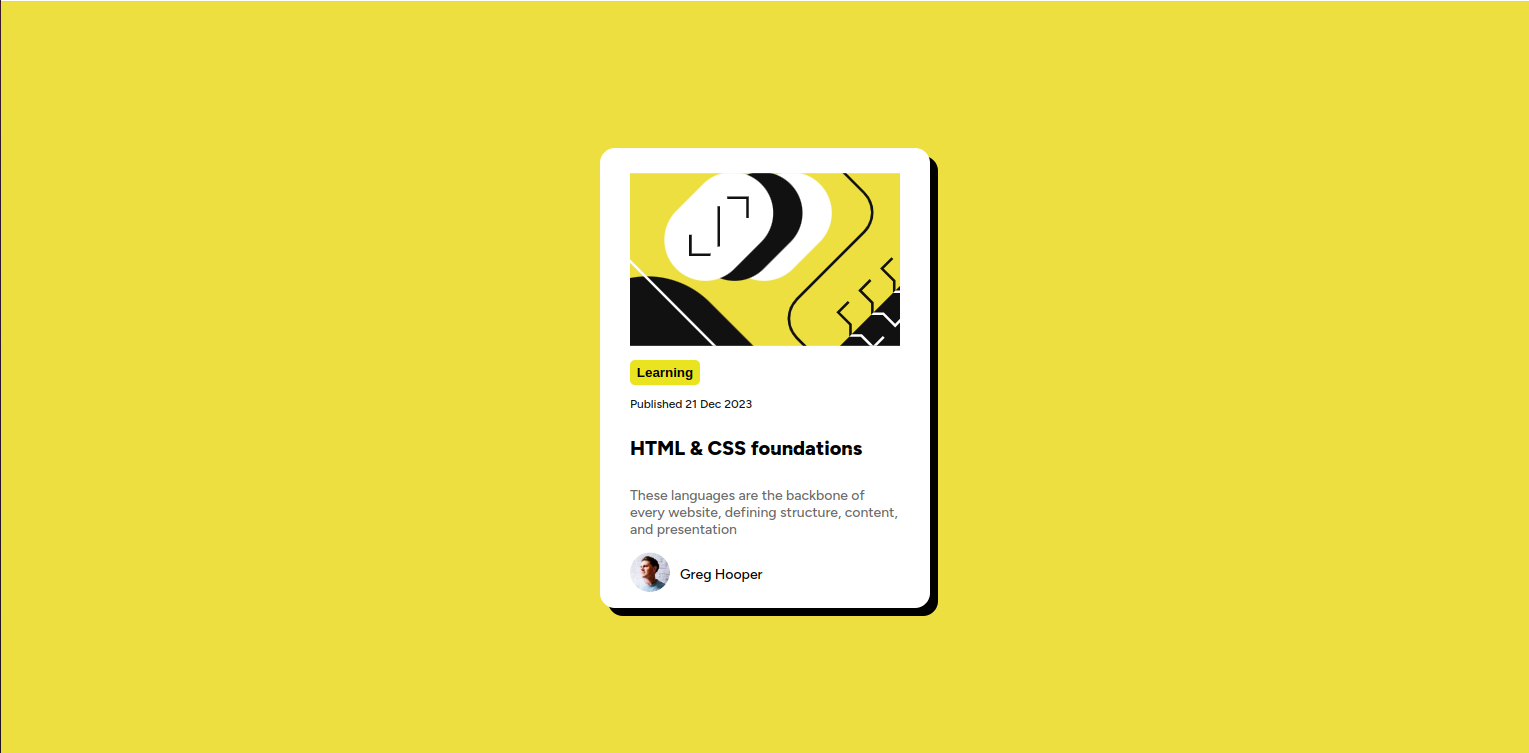
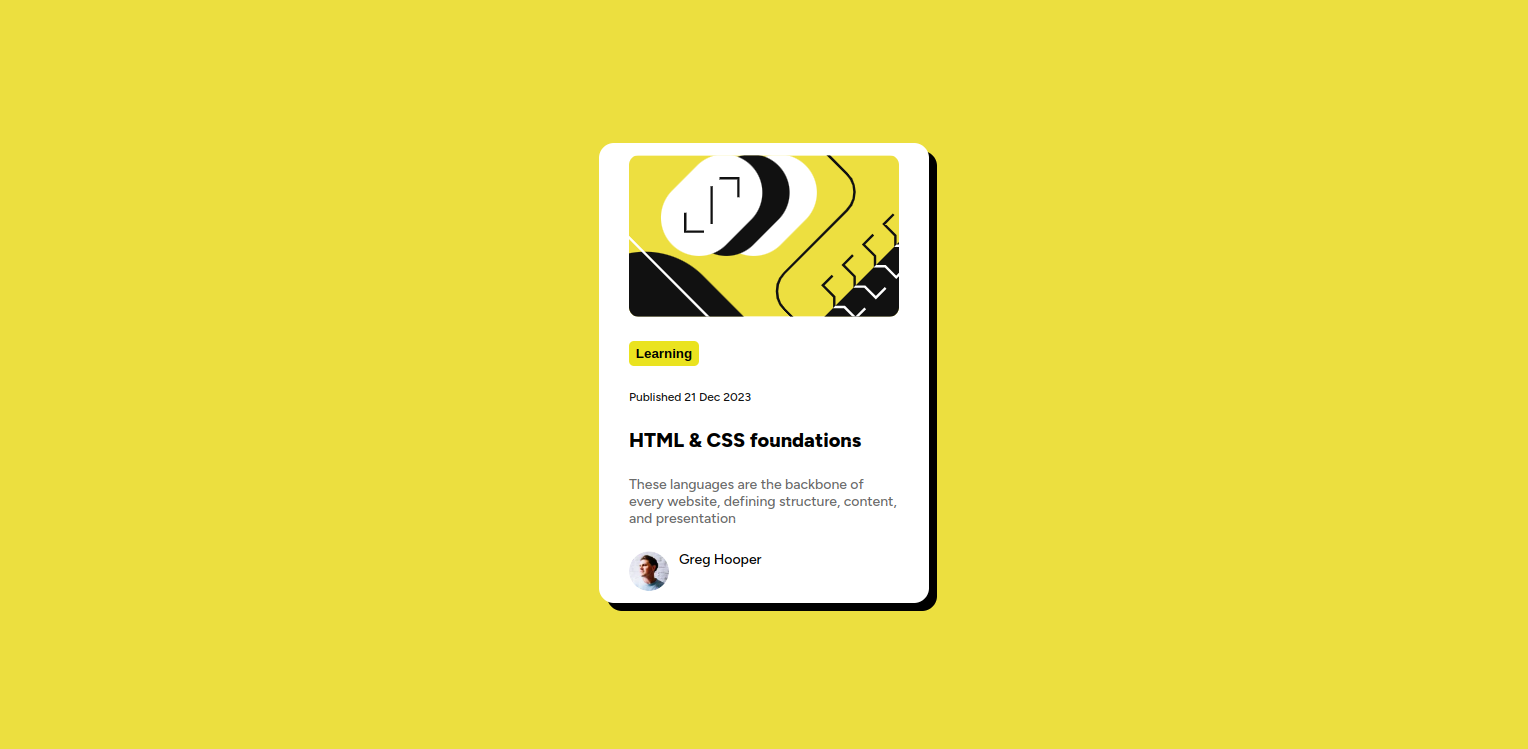
the border-raduis of img is fixed

diff --git a/index.html b/index.html
@@ -22,104 +22,7 @@
   <body>
     <div class="blog-container">
       <div class="svg-container">
-        <svg
-          xmlns="http://www.w3.org/2000/svg"
-          width="290"
-          height="201"
-          fill="none"
-          viewBox="0 0 336 201"
-        >
-          <g clip-path="url(#a)">
-            <path fill="#F4D04E" d="M0 .5h336v200H0z" />
-            <rect
-              width="139"
-              height="95"
-              x="87.996"
-              y="77.729"
-              fill="#fff"
-              rx="47.5"
-              transform="rotate(-45 87.996 77.729)"
-            />
-            <rect
-              width="139"
-              height="95"
-              x="54.055"
-              y="77.729"
-              fill="#111"
-              rx="47.5"
-              transform="rotate(-45 54.055 77.729)"
-            />
-            <path
-              fill="#111"
-              d="M234.864 209.036 451.4-7.5l67.175 67.175-216.536 216.536z"
-            />
-            <rect
-              width="139"
-              height="95"
-              x="20.114"
-              y="77.729"
-              fill="#fff"
-              rx="47.5"
-              transform="rotate(-45 20.114 77.729)"
-            />
-            <rect
-              width="204.19"
-              height="270.554"
-              fill="#111"
-              rx="102.095"
-              transform="scale(-1 1) rotate(45 -103.887 14.564)"
-            />
-            <path
-              stroke="#fff"
-              stroke-width="3"
-              d="m6.69-357.5 135.583 135.727c12.481 12.494 12.481 32.737 0 45.231L-45.544 11.475c-12.481 12.494-12.481 32.737 0 45.23L107.088 209.5"
-            />
-            <path
-              stroke="#111"
-              stroke-width="3"
-              d="M69.965 71.719v23.334h23.334M136.079 52.273V28.94h-23.334M102.845 38.838v46.67M210.364-37.5l60.873 60.873c12.497 12.496 12.497 32.758 0 45.254l-77.745 77.746c-12.497 12.496-12.497 32.758 0 45.254l69.872 69.873"
-            />
-            <path
-              stroke="#111"
-              stroke-width="3"
-              d="m253.339 149.574-12.144 12.145 14.256 14.257v12.672h12.673l13.729 13.729 12.145-12.145M278.685 124.228l-12.145 12.145 14.257 14.257v12.673h12.673l13.729 13.729 12.145-12.145M304.031 98.883l-12.145 12.144 14.257 14.257v12.673h12.673l13.729 13.729 12.144-12.145M329.376 73.537l-12.145 12.145 14.257 14.257v12.672h12.673l13.729 13.729 12.145-12.144"
-            />
-            <path
-              stroke="#fff"
-              stroke-width="5"
-              d="m354.722 48.191-12.145 12.145 14.257 14.257v12.673h12.673l13.729 13.729 12.145-12.145"
-            />
-            <mask
-              id="b"
-              width="285"
-              height="285"
-              x="234"
-              y="-8"
-              maskUnits="userSpaceOnUse"
-              style="mask-type: alpha"
-            >
-              <path
-                fill="#111"
-                d="M234.864 209.036 451.4-7.5l67.175 67.175-216.536 216.536z"
-              />
-            </mask>
-            <g stroke="#fff" mask="url(#b)">
-              <path
-                stroke-width="3"
-                d="m253.339 149.574-12.144 12.145 14.256 14.257v12.672h12.673l13.729 13.729 12.145-12.145M278.685 124.228l-12.145 12.145 14.257 14.257v12.673h12.673l13.729 13.729 12.145-12.145M304.031 98.883l-12.145 12.144 14.257 14.257v12.673h12.673l13.729 13.729 12.144-12.145M329.376 73.537l-12.145 12.145 14.257 14.257v12.672h12.673l13.729 13.729 12.145-12.145"
-              />
-              <path
-                stroke-width="5"
-                d="m354.722 48.191-12.145 12.145 14.257 14.257v12.673h12.673l13.729 13.729 12.145-12.145"
-              />
-            </g>
-          </g>
-          <defs>
-            <clipPath id="a">
-              <path fill="#fff" d="M0 .5h336v200H0z" />
-            </clipPath>
-          </defs>
-        </svg>
+        <img src="./assets/images/illustration-article.svg" alt="">
       </div>
       <button>Learning</button>
       <p class="one">Published 21 Dec 2023</p>
@@ -128,10 +31,10 @@
         These languages are the backbone of every website, defining structure,
         content, and presentation
       </p>
-      <div class="owner">
+      <footer class="footer">
         <img src="./assets/images/image-avatar.webp" alt="Profile" />
         <p>Greg Hooper</p>
-      </div>
+      </footer>
     </div>
   </body>
 </html>

diff --git a/style.css b/style.css
@@ -32,15 +32,15 @@ body {
 	transition: transform 0.3s ease;
 }
 
-svg {
+.svg-container > img {
 	width: 100%;
 	height: 100%;
 	display: block;
   border-radius: 10px;
 } 
 
-svg:hover,
-svg:focus {
+.svg-container > img:hover,
+.svg-container > img:focus {
 	transform: scale(1.1);
 }
 
@@ -92,11 +92,11 @@ p:focus {
 	color: hsl(0, 0%, 42%);
 }
 
-.owner {
+.footer {
 	display: flex;
 }
 
-img {
+footer > img {
 	border-radius: 50%;
 	width: 40px;
 	height: 40px;
@@ -104,7 +104,7 @@ img {
 	transition: transform 0.3s ease;
 }
 
-img:hover,
-img:focus {
+footer > img:hover,
+footer > img:focus {
 	transform: scale(1.3);
 }
